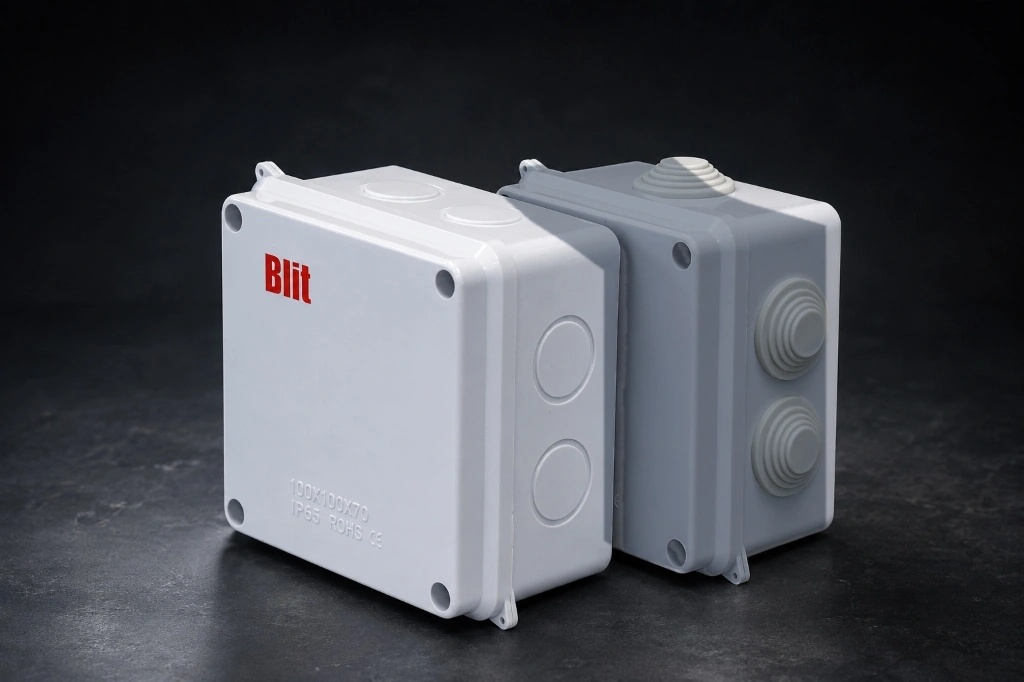
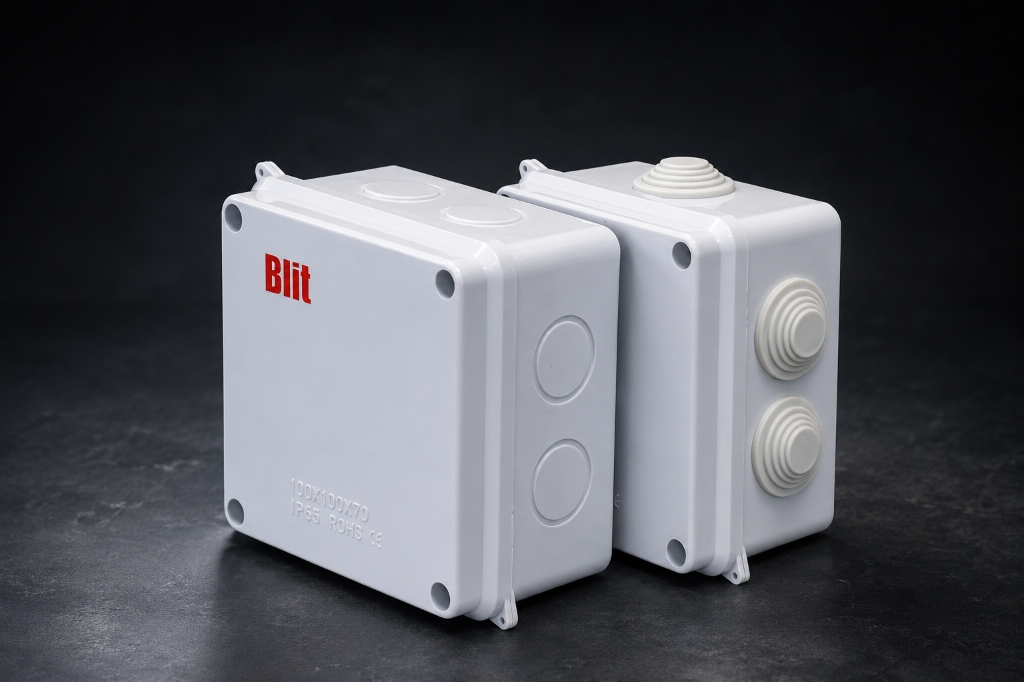
revert(installation-boxes): restore previous authentic white enclosure boxes hero image

Changed region(s): [[0.4688, 0.2155, 0.8125, 0.8622]]

diff --git a/installation-boxes.html b/installation-boxes.html
@@ -11,7 +11,7 @@
   <link rel="preconnect" href="https://fonts.gstatic.com" crossorigin>
   <link href="https://fonts.googleapis.com/css2?family=Outfit:wght@300;400;500;600;700;800&family=Poppins:wght@300;400;500;600;700&display=swap" rel="stylesheet">
   
-  <link rel="preload" href="/assets/products/installation_boxes/installation_boxes_hero.webp?v=2000" as="image" type="image/webp">
+  <link rel="preload" href="/assets/products/installation_boxes/installation_boxes_hero.webp?v=2040" as="image" type="image/webp">
   <link rel="stylesheet" href="./style.css">
   
   <style>
@@ -264,7 +264,7 @@
   <!-- Hero Section -->
   <section class="switches-hero">
     <div class="hero-bg-media">
-      <img src="./assets/products/installation_boxes/installation_boxes_hero.webp?v=2000" alt="Installation Boxes Collection">
+      <img src="./assets/products/installation_boxes/installation_boxes_hero.webp?v=2040" alt="Installation Boxes Collection">
     </div>
     <div class="container" style="max-width: 1200px; margin: 0 auto; padding: 0 24px; width: 100%;">
       <div style="max-width: 580px;">

diff --git a/index.html b/index.html
@@ -402,7 +402,7 @@
         <!-- Card 6: Installation Boxes -->
         <div class="category-card reveal reveal-delay-2" data-category="installation_boxes">
           <div class="card-img-box full-bleed">
-            <img src="/assets/products/installation_boxes/installation_boxes_hero.webp?v=2000" alt="Installation Boxes Collection" loading="lazy">
+            <img src="/assets/products/installation_boxes/installation_boxes_hero.webp?v=2040" alt="Installation Boxes Collection" loading="lazy">
             <span class="category-badge">Installation Boxes</span>
           </div>
           <div class="card-content">
